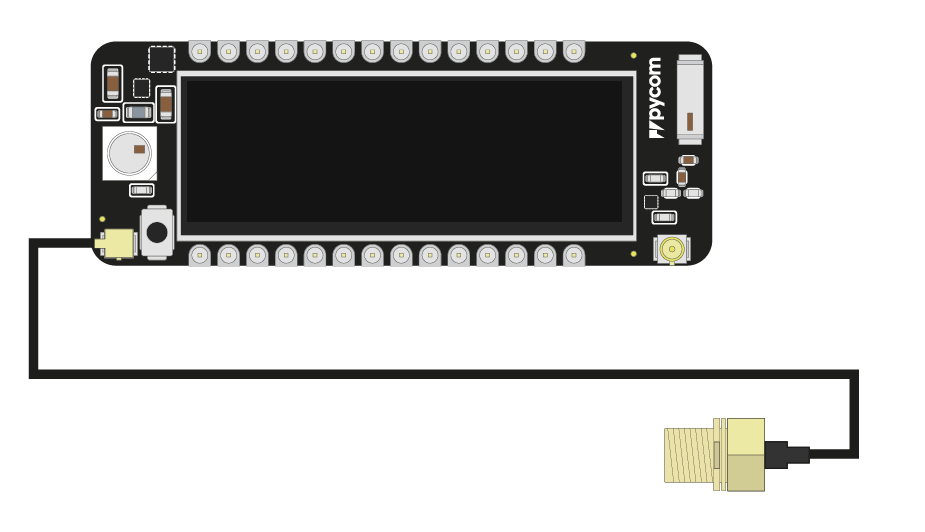
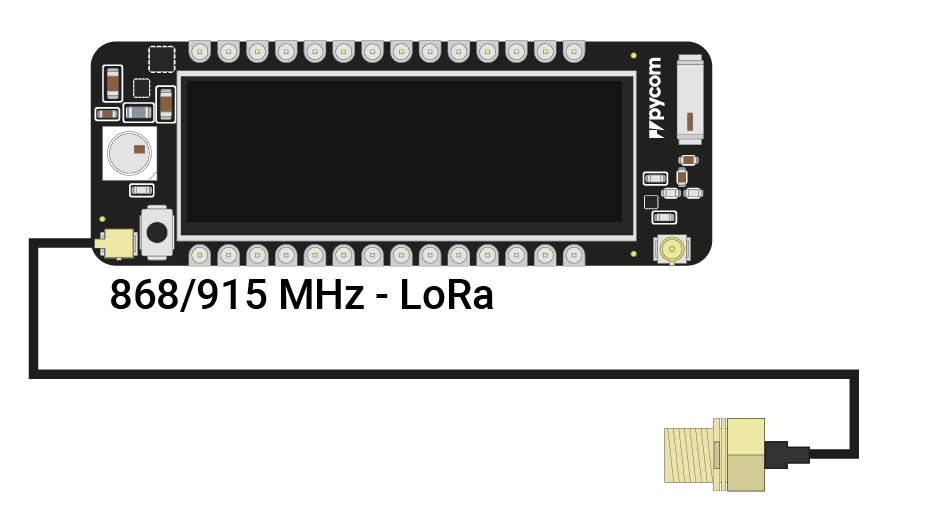
updated antenna overview, created mdns example

Changed region(s): [[0.1211, 0.5113, 0.5449, 0.6015]]

diff --git a/themes/doc-theme/static/css/doc-theme.css b/themes/doc-theme/static/css/doc-theme.css
@@ -278,7 +278,7 @@ img {
 
 table {
     display: table;
-    width: 100%;
+    max-width: 100%;
     border-collapse: collapse;
     border-spacing: 0;
     overflow: auto;

diff --git a/content/tutorials/networks/lora/_index.md b/content/tutorials/networks/lora/_index.md
@@ -8,9 +8,9 @@ The following tutorials demonstrate the use of the LoRa functionality on the LoP
 
 When using Lora, **Always** connect the appropriate LoRa antenna to your device. See the figures below for the correct antenna placement
 
-| Lopy | Lopy4 | Fipy |
-|:---|:---|:---|
-| ![](/gitbook/assets/lora_pigtail_ant_lopy.png) | ![](/gitbook/assets/lora_sigfox_pigtail_ant_lopy4.png) | ![](/gitbook/assets/lora_sigfox_pigtail_ant_fipy.png) |
+| Lopy / Fipy | Lopy4 |
+|:---|:---|
+| ![](/gitbook/assets/lora_pigtail_lopy.png) | ![](/gitbook/assets/lora_sigfox_pigtail_lopy4.png) |
 
 * **LoRaWAN mode** implements the full LoRaWAN stack for a class A device. It supports both OTAA and ABP connection methods, as well as advanced features like adding and removing custom channels to support "special" frequencies plans like the those used in New Zealand. There are two basic ways of accessing the LoraWAN network:
     * [LoRaWAN ABP](../lora/lorawan-abp/)

diff --git a/content/tutorials/networkprotocols/mdns.md b/content/tutorials/networkprotocols/mdns.md
@@ -1,0 +1,18 @@
+---
+title: "MDNS"
+---
+On this page, we will explore the Multicast DNS feature. MDNS is very useful for connecting to a device of which you do not know the IP address, and works similar to the Domain Name System, on a local network without the need for a DNS server. You can use the `hostname.local` url to connect. To be able to use MDNS on your computer, you might need some additional software.
+* Windows:
+* MacOS: built in!
+* Linux: 
+
+## Use MDNS for a Telnet connection
+```python
+from network import MDNS
+MDNS.init()
+MDNS.set_name(hostname ="pycom", instance_name="pycom")
+MDNS.add_service("_http",MDNS.PROTO_TCP, 80)
+MDNS.add_service("_telnetd", MDNS.PROTO_TCP, 23)
+```
+
+When this is running on your development board, you can go to your terminal and try `ping pycom.local`. The second service activate the telnet link, so you can also try `telnet pycom.local` and connect to the REPL through this method!

diff --git a/content/tutorials/networks/sigfox.md b/content/tutorials/networks/sigfox.md
@@ -12,7 +12,7 @@ When using the SigFox network, **Always** connect the appropriate LoRa antenna t
 
 |  Lopy4 | Fipy  |   
 |---|---|
-| ![](/gitbook/assets/lora_sigfox_pigtail_ant_lopy4.png) | ![](/gitbook/assets/lora_sigfox_pigtail_ant_fipy.png)  |   
+| ![](/gitbook/assets/lora_sigfox_pigtail_lopy4.png) | ![](/gitbook/assets/lora_sigfox_pigtail_fipy.png)  |   
 
 On this page we cover
 1. [Connecting to Sigfox](#connecting-to-sigfox)
